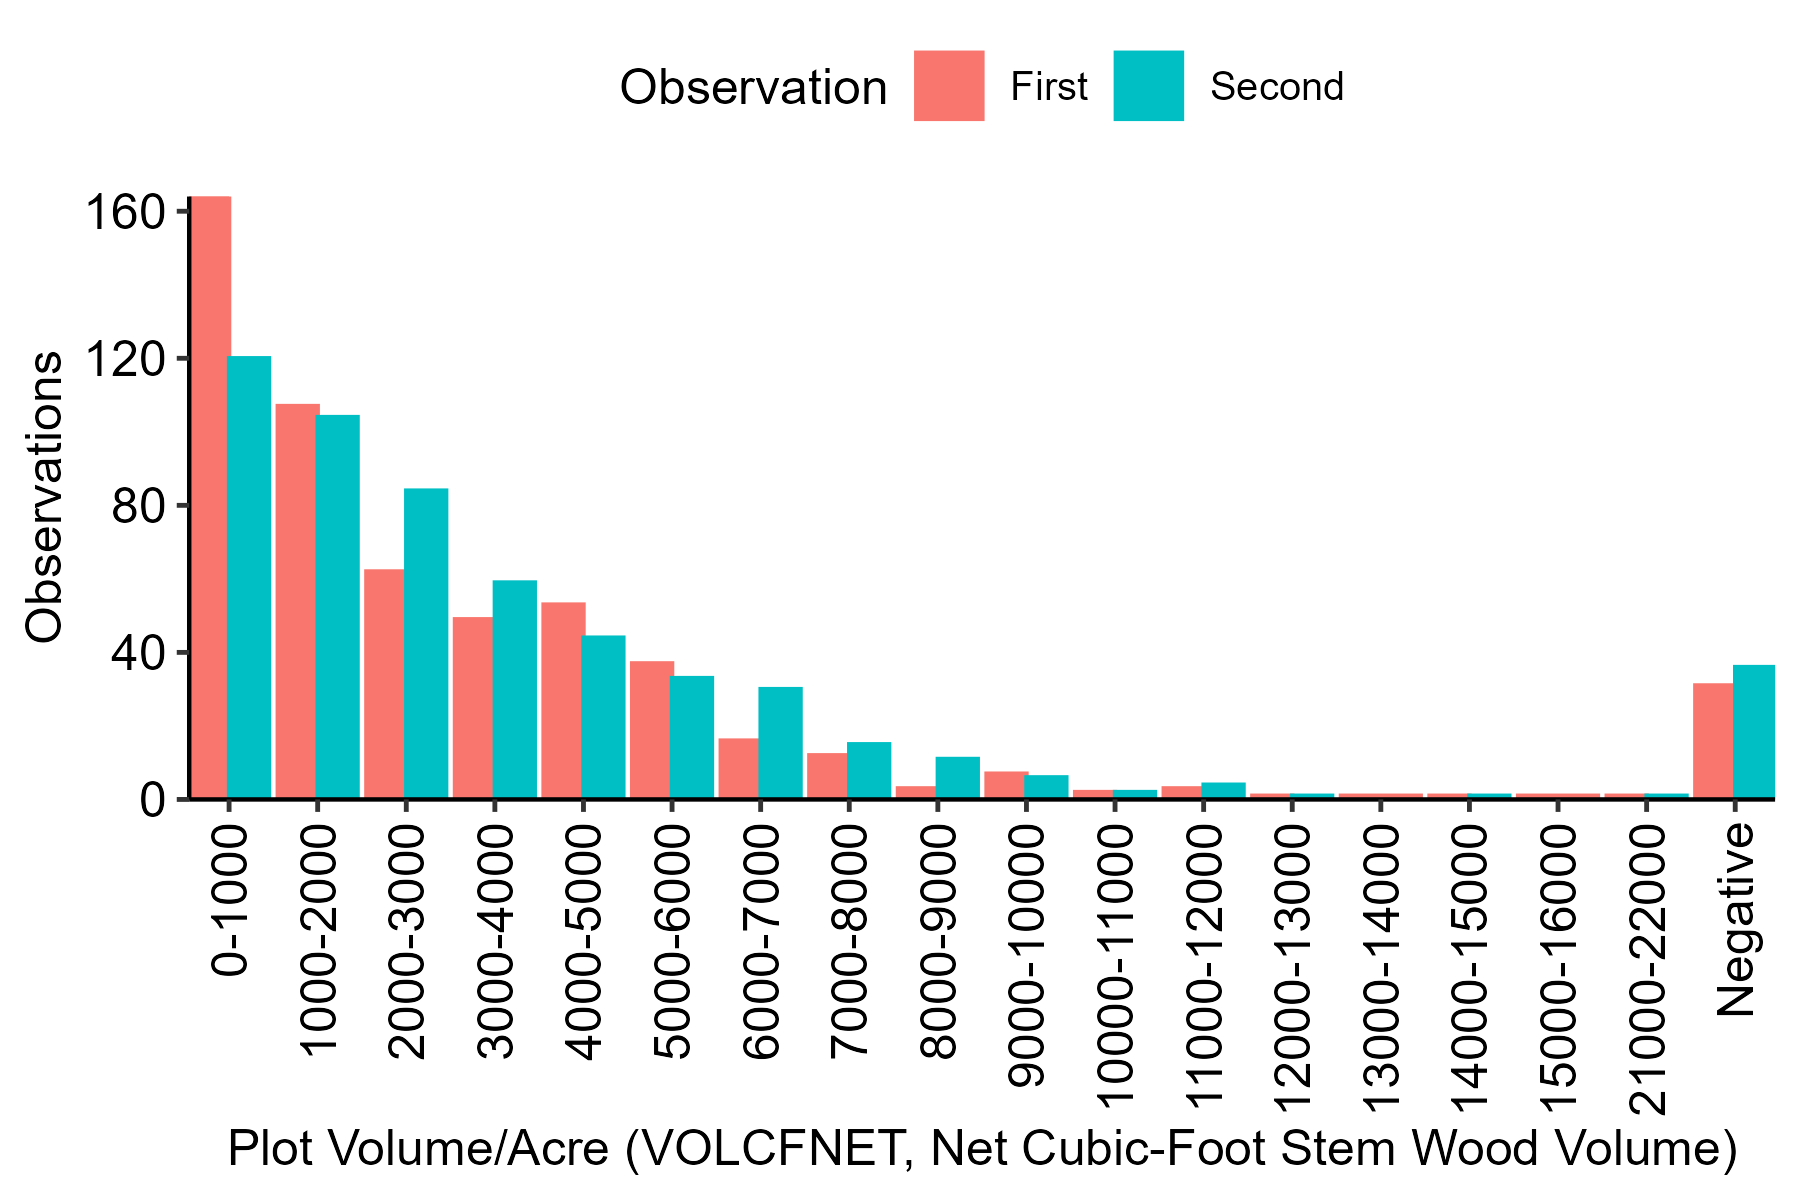
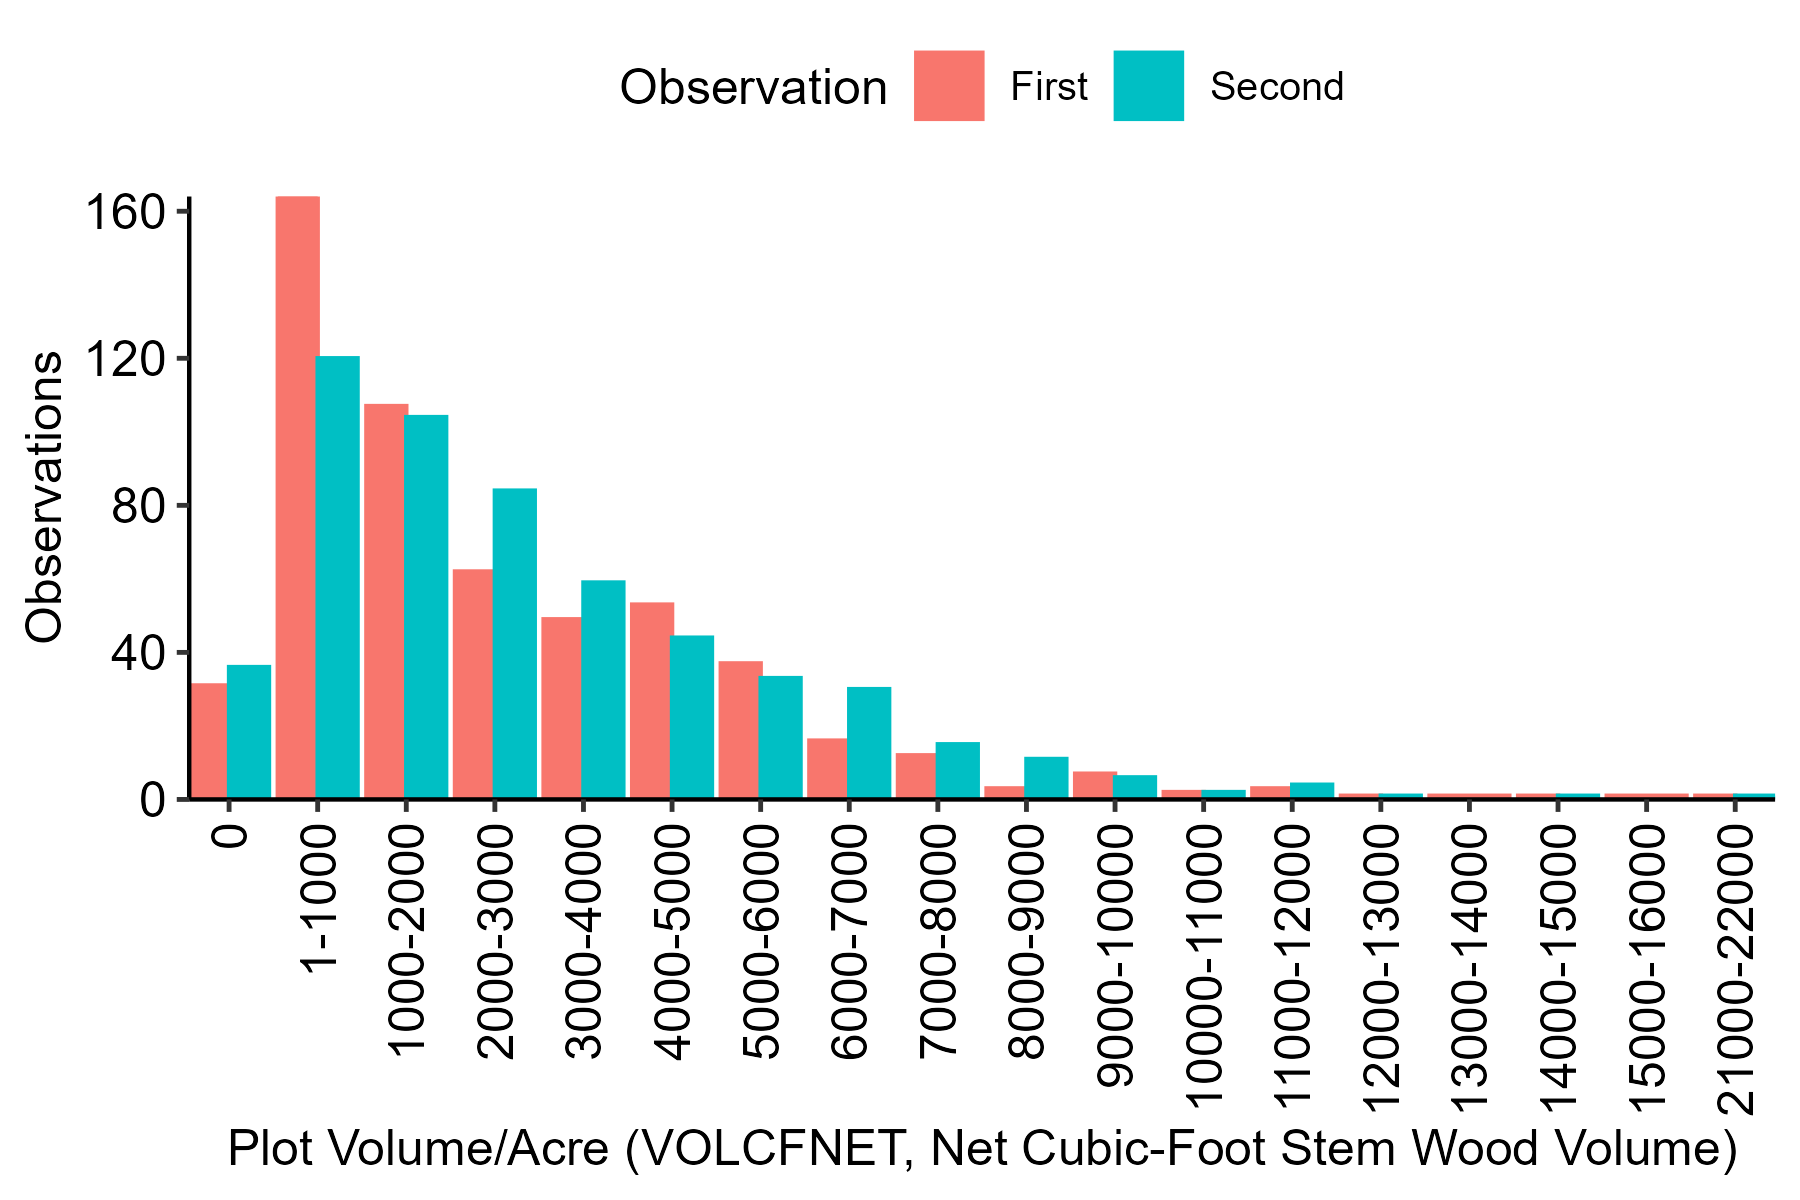
Finished through wrangling up to plots.

diff --git a/README.md b/README.md
@@ -36,15 +36,16 @@ dat_or_tree = "data/OR_TREE.csv" %>% read_csv # 429 MB
 
 ## 2. Filtering Plots
 
-``` r
-# 2. Filter plots to those (a) in western Oregon (b) with at least one pair of observations.
+This code filters the full set of plots in Oregon down to those (a) west
+of a placeholder cut-off on longitude and (b) with at least one pair of
+observations.
 
+``` r
 dat_or_plot_less = 
   dat_or_plot %>% 
-  # Filter to western Oregon.
+  # Filter to plots in western Oregon.
   filter(LON < -120) %>% 
-  # Filter to pairs of observations.
-  #  This drops plots without multiple observations.
+  # Filter to plots with at least two observations.
   mutate(MATCH_CN = ifelse(is.na(PREV_PLT_CN), CN, PREV_PLT_CN)) %>% 
   group_by(MATCH_CN) %>% 
   filter(n() > 1) %>%
@@ -62,6 +63,9 @@ dat_or_plot_less =
 ```
 
 ## 3. Filtering Conditions
+
+This code filters the full set of conditions in Oregon down to private
+land with Douglas fir stands.
 
 ``` r
 # 3. Filter conditions to private Douglas fir.
@@ -89,15 +93,20 @@ dat_or_cond_less =
 
 ## 4. Filtering Trees
 
+This code uses the subsets of plots and conditions from (2) and (3) to
+filter trees down to Douglas fir stands on private land in western
+Oregon with at least two observations, then filters the resulting subset
+of trees down to Douglas firs.
+
 ``` r
-# 4. Join filters on plot and condition.
+# Join subsets of plots and conditions.
 
 dat_or_keep = 
   dat_or_cond_less %>% 
   left_join(dat_or_plot_less) %>% 
   semi_join(dat_or_plot_less)
 
-# 5. Use the result of (4) to filter trees, then filter trees to Douglas fir.
+# Use those subsets to filter trees.
 
 dat_or_tree_less = 
   dat_or_tree %>% 
@@ -129,16 +138,22 @@ dat_or_tree_less =
             by = c("STATECD", "UNITCD", "COUNTYCD", "PLOT", "CONDID", "INVYR")) %>% 
   # Filter on plot and condition.
   semi_join(dat_or_keep,
-            by = c("STATECD", "UNITCD", "COUNTYCD", "PLOT", "CONDID", "INVYR")) %>% 
+            by = c("STATECD", "UNITCD", "COUNTYCD", "PLOT", "CONDID", "INVYR")) %>%
   # Filter on species group (down to Douglas firs). 
   filter(SPGRPCD == 10) 
 ```
 
 ## 5. Aggregation and Pivot
 
-``` r
-# 6. Aggregate to plot-acres (?!), then pivot so that rows are plots with timesteps in columns.
+This code aggregates the trees identified in (4) up to plots, with tree
+measurements transformed into per-acre metrics, then pivots the data so
+that each row describes a plot at two timesteps. This step drops
+observations 3-N for plots with more than two observations. That isn’t
+ideal, but it’s the simplest option and affects only a few plots. This
+step is also where changes to keep additional condition information
+(FLDAGE or STDAGE to follow Hashida and Fenichel) would come in.
 
+``` r
 dat_or_tree_wide = 
   dat_or_tree_less %>% 
   group_by(STATECD, # Mind implicit drops.
@@ -159,6 +174,7 @@ dat_or_tree_wide =
   group_by(STATECD, UNITCD, COUNTYCD, PLOT) %>% 
   # Drop stands with more or fewer than two observations.
   filter(n() == 2) %>%  
+  # Set up a unique identifier for plots.
   mutate(PLOT_UID = paste(STATECD, UNITCD, COUNTYCD, PLOT, sep = "_")) %>% 
   ungroup %>% 
   select(-c(STATECD, UNITCD, COUNTYCD, PLOT)) %>%
@@ -166,7 +182,6 @@ dat_or_tree_wide =
   arrange(PLOT_UID) %>% 
   group_by(PLOT_UID) %>% 
   # Get an ID for first/second observations.
-  #  Note that including STDAGE depends on handling conditions.
   mutate(WHICH = ifelse(MEASYEAR == max(MEASYEAR), 1, 0)) %>% 
   ungroup %>% 
   pivot_wider(names_from = WHICH,
@@ -179,29 +194,104 @@ dat_or_tree_wide =
 
 ## 6. Histograms
 
-Text.
+These figures check whether the data make sense.
 
 <img src="figures/vis_histogram_years.png" style="width:80.0%"
 data-fig-alt="Years of first and second observations."
 data-fig-align="center" />
 
-Text.
+To start off, measurement years look about right: first and second
+observations are more or less uniform for 2001-2007 and 2011-2017, and
+then there are some jumps for 2008-2009 and 2018-2019 and drops for 2010
+and 2020-2022.
 
 <img src="figures/vis_histogram_years_differences.png"
 style="width:40.0%" data-fig-alt="Differences in years of observations."
 data-fig-align="center" />
 
-Text.
+This checks for nonsense results and finds none. Almost all measurement
+intervals are 10 years, and the oddball intervals are only a little
+different at 9, 11, and 12 years.
 
 <img src="figures/vis_histogram_volumes.png" style="width:80.0%"
 data-fig-alt="Volumes." data-fig-align="center" />
 
-Text.
+The volume/acre measurements fall on a nice distribution. The zero
+values are ominous.
 
 <img src="figures/vis_histogram_volumes_differences.png"
 style="width:80.0%" data-fig-alt="Differences in volumes."
 data-fig-align="center" />
 
-Text.
+While change in volume/acre between timesteps also falls on a nice
+distribution, the “Negative” bin is a problem: a fair proportion of
+plots see volume decrease over time. I haven’t found cases where that’s
+a problem resulting from measurement or computation, so I’m assuming
+that reflects the real rate of harvest and disturbance for this subset
+of plots. For the rest of this document, I’m assuming that only plots in
+that negative bin reflect harvest and disturbance. That’s not a great
+assumption, though, so figuring out a better approach might be a
+prerequisite for meaningful growth models.
+
+## 7. Changes over Timesteps
+
+These figures take an initial look at growth to inform modeling and get
+at the negative growth issues. As above, “VOLCFNET” is net cubic-foot
+stem wood volume. I didn’t pull VOLBNET through for these figures since
+it should return more or less the same results, but that and any other
+volume/biomass/carbon variables of interest are available for more
+exploration and/or modeling. “VOLCFNET_0” is volume at the first
+timestep, “VOLCFNET_D” is the difference in volume between the first and
+second timesteps, “VOLCFNET_P” is the percent change in volume between
+the first and second timesteps, and “log(VOLCFNET_P)” is the log of the
+percent change.
+
+<img src="figures/vis_change_absolute.png" style="width:60.0%"
+data-fig-alt="Absolute change in volume by initial volume."
+data-fig-align="center" />
+
+Most plots suggest a nice growth curve. The plots with negative growth
+appear to fall on a different distribution of initial volume than the
+rest.
+
+<img src="figures/vis_change_percent.png" style="width:60.0%"
+data-fig-alt="Percent change in volume by initial volume."
+data-fig-align="center" />
+
+I believe we had talked about this specific plot to inform growth
+modeling, but it isn’t quite informative without transformation.
+
+<img src="figures/vis_change_percent_log.png" style="width:60.0%"
+data-fig-alt="Log of percent change in volume by initial volume."
+data-fig-align="center" />
+
+With transformation, the same plot is a little more informative: plots
+with non-negative growth describe a nice curve, with plots of greater
+initial volume returning less growth than plots of lesser initial
+volume. So, without worrying too much about the plots with negative
+growth and other plots with disturbances, the data should support a
+growth model following Hashida and Fenichel.
 
 # Discussion
+
+1.  In general, the data look right, and I’m hoping this workflow
+    matches what we’ve discussed.
+
+    - If this workflow goes off the rails somewhere along the lines, it
+      should be explicit in the code – I’m starting from raw FIA
+      exports.
+
+2.  However, dealing with harvest and disturbances needs some further
+    discussion.
+
+    - I can pull condition data describing harvest, disturbance, and
+      treatment through, but then sticking those variables into models
+      would diverge from Hashida and Fenichel’s approach. We could also
+      drop plots that undergo harvest, disturbance, and/or treatment,
+      which I’m supposing is what Hashida and Fenichel did (in the
+      absence of documentation for initial data handling).
+
+3.  If I pull age measurements (FLDAGE, STDAGE) through from condition
+    data, I can fully replicate Hashida and Fenichel’s growth model. Is
+    that the right next step? If so, what aggregation of age
+    measurements from condition to plot would be appropriate?
